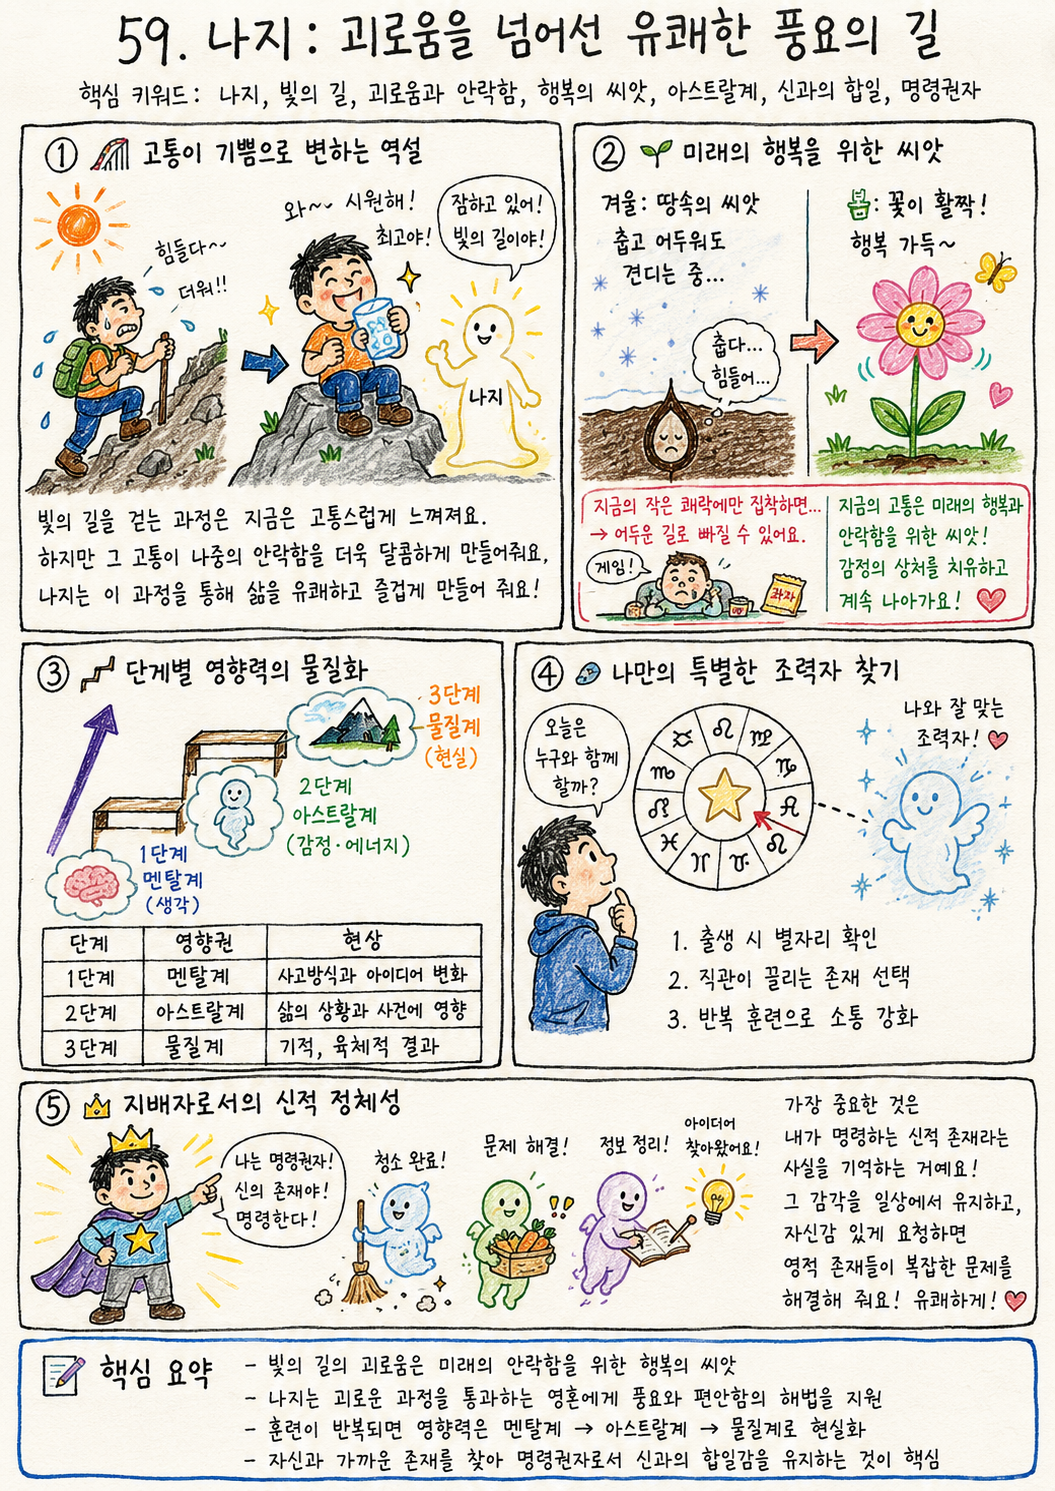
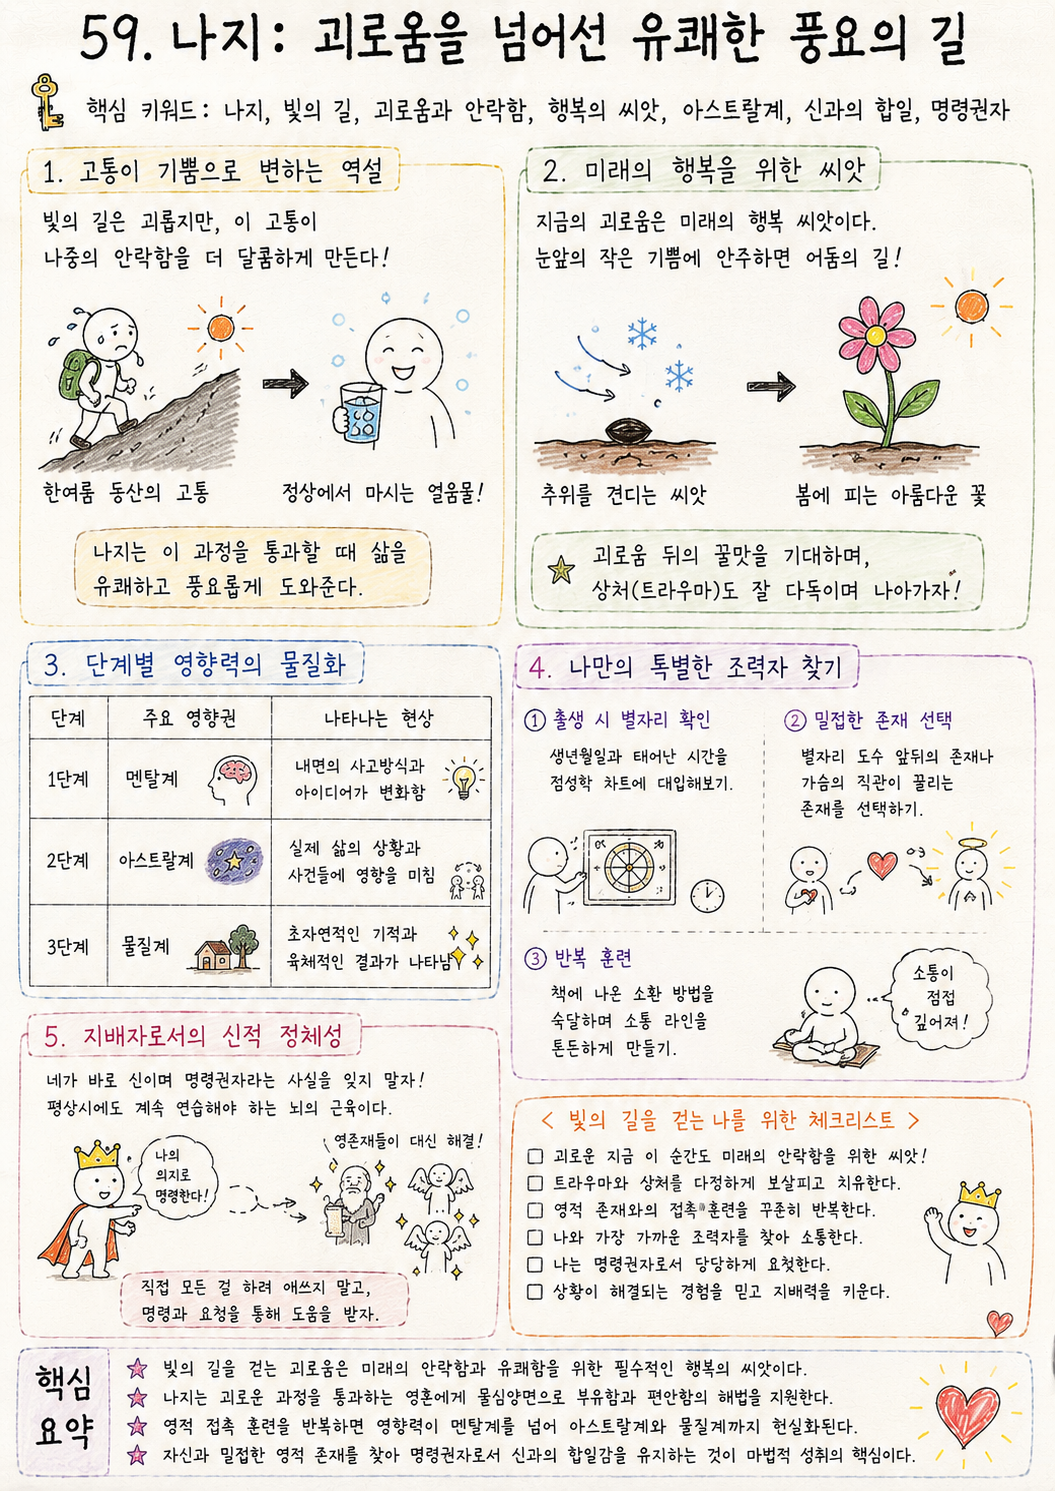
chore: sync yao learning comic assets

diff --git a/STATE.md b/STATE.md
@@ -1,26 +1,25 @@
 # Current Task
-- Active: make the default right-panel view for 효사/괘사 open in 학습만화 mode, while keeping 영혼 in text mode.
+- Active: sync the newly added 효사 학습만화 assets from `image/효사` into the repository so the commentary comic view can use them.
 
 # Route
 - Route A
-- Reason: this is a tight UI state-default refinement contained to one component plus its targeted tests.
+- Reason: this is a contained asset-sync slice limited to one existing image directory with no code-path redesign.
 
 # Writer Slot
-- main: updating the default commentary view-mode behavior directly
+- main: staging and publishing the refreshed 효사 comic assets directly
 
 # Contract Freeze
-- Goal: when the user is in 효사 or 괘사 commentary, the right panel should open in comic mode by default; soul should continue to open in text mode.
-- Non-goals: do not redesign the panel layout, do not change comic asset loading rules, and do not touch unrelated data files.
+- Goal: publish the newly added and updated 효사 학습만화 files under `image/효사` so they are included by the existing loader.
+- Non-goals: do not redesign UI, do not change image-loading code, and do not touch unrelated asset folders.
 - Write sets:
-  - main: `STATE.md`, `src/components/IChingSection.tsx`, `src/components/IChingSection.test.tsx`
+  - main: `STATE.md`, `image/효사/*`
 - Acceptance criteria:
-  - 효사/괘사 commentary defaults to comic mode.
-  - 영혼 remains text-first.
-  - Existing toggle still switches between comic/text views.
-  - Targeted tests and build pass.
+  - new 효사 이미지 files are staged and committed from `image/효사`.
+  - updated existing 효사 이미지 files are included.
+  - repository verification appropriate to this asset-only change is recorded.
 
 # Reviewer
 - self-review after targeted verification
 
 # Last Update
-- 2026-05-13: re-scoped the task from always-visible comic toggles to comic-first defaults for 효사/괘사.
+- 2026-05-13: re-scoped the task from commentary default-mode behavior to 효사 comic asset sync.
